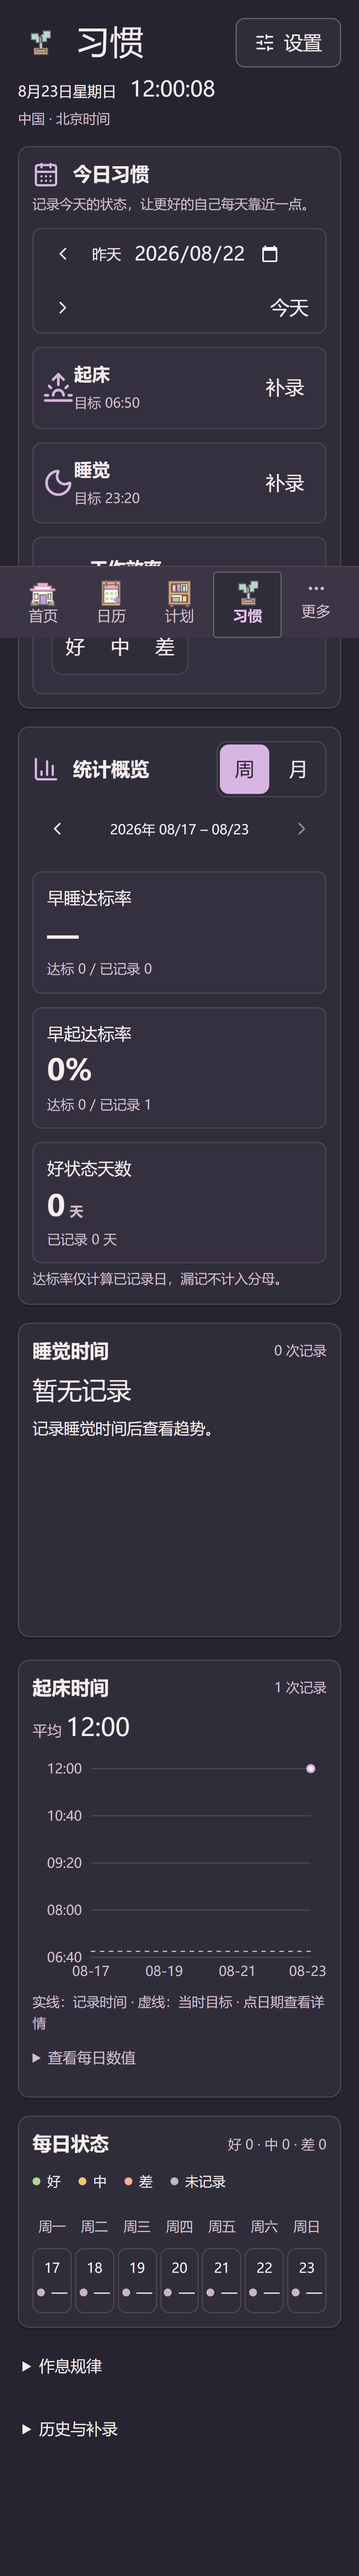
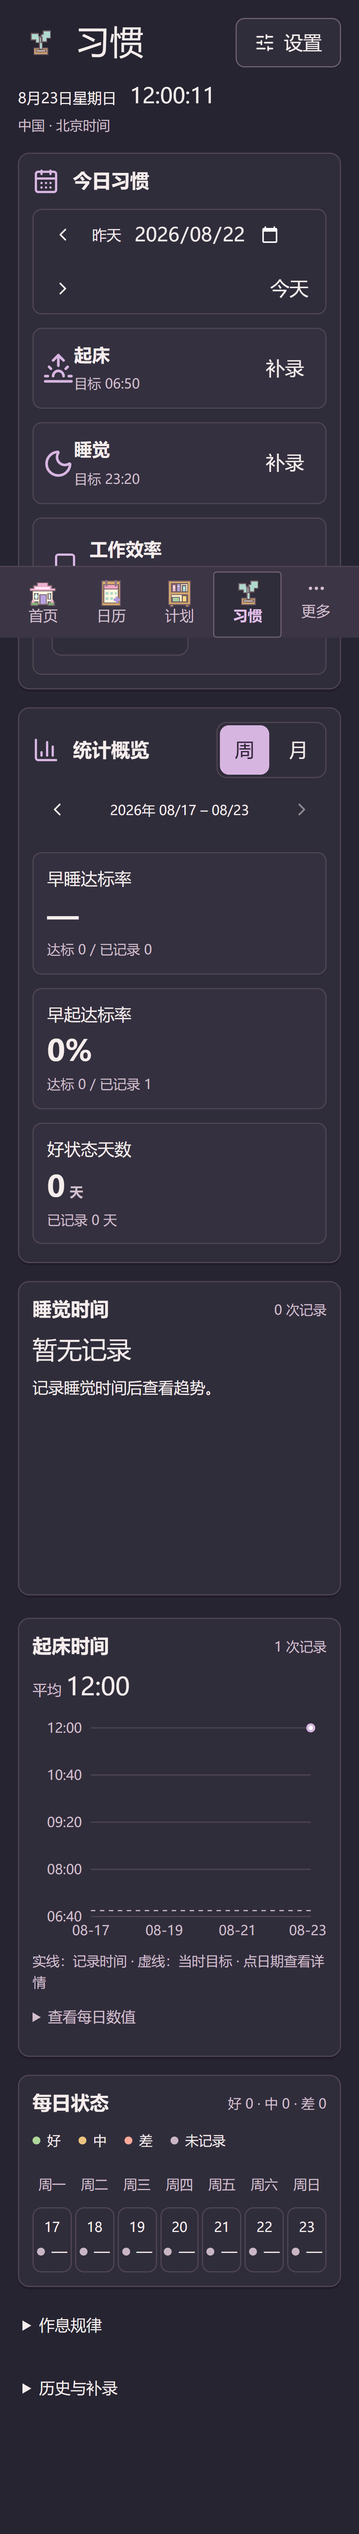
ui(layout)：收紧概览操作区并精简计划与习惯页头

diff --git a/src/features/tasks/task-dashboard.tsx b/src/features/tasks/task-dashboard.tsx
@@ -271,11 +271,11 @@ export function TaskDashboard() {
     return <SettingsPanel tasks={tasks} onUpdateTask={update} />;
   return (
     <div className="dashboard dashboard-annotatable" data-testid="home-panel">
-      <div className="dashboard-overview">
+      <Surface className="dashboard-overview" variant="flat">
         <p className="home-summary" aria-live="polite">
           今日任务 {normalTaskTotal} · 已完成 {done}
         </p>
-        <Surface className="metric-strip" variant="flat">
+        <div className="metric-strip">
           <StatItem
             label="普通任务"
             value={
@@ -318,25 +318,27 @@ export function TaskDashboard() {
               </>
             }
           />
-        </Surface>
-        <button
-          type="button"
-          className="finish-day"
-          disabled={isDayClosed || preparingClose}
-          aria-busy={preparingClose}
-          title="整理未完成任务并保存今日记录"
-          onClick={() => void openCloseDialog()}
-        >
-          {isDayClosed ? (
-            <CircleCheck size={18} aria-hidden="true" />
-          ) : (
-            <Moon size={18} aria-hidden="true" />
-          )}
-          <span>
-            {isDayClosed ? '今日已结束' : preparingClose ? '正在保存…' : '结束今天'}
-          </span>
-        </button>
-      </div>
+        </div>
+        <div className="overview-close-action">
+          <button
+            type="button"
+            className="finish-day"
+            disabled={isDayClosed || preparingClose}
+            aria-busy={preparingClose}
+            title="整理未完成任务并保存今日记录"
+            onClick={() => void openCloseDialog()}
+          >
+            {isDayClosed ? (
+              <CircleCheck size={18} aria-hidden="true" />
+            ) : (
+              <Moon size={18} aria-hidden="true" />
+            )}
+            <span>
+              {isDayClosed ? '今日已结束' : preparingClose ? '正在保存…' : '结束今天'}
+            </span>
+          </button>
+        </div>
+      </Surface>
       <div
         className="dashboard-columns"
         style={{ '--schedule-ratio': `${scheduleRatio}fr` } as React.CSSProperties}

diff --git a/src/features/habits/habits-panel.tsx b/src/features/habits/habits-panel.tsx
@@ -79,7 +79,7 @@ export function HabitsPanel() {
   return (
     <div className="habits-panel" data-testid="habits-panel">
       <header className="habit-page-header">
-        <div>
+        <div className="habit-page-intro">
           <h1>
             <CottageNavIcon name="habits">
               <Sprout size={32} />
@@ -171,9 +171,6 @@ export function HabitsPanel() {
                   <CalendarDays size={24} aria-hidden="true" />
                   今日习惯
                 </h2>
-                <p className="habit-caption">
-                  记录今天的状态，让更好的自己每天靠近一点。
-                </p>
               </div>
               <HabitDayNavigation
                 date={historicalDate ?? today}
@@ -270,10 +267,9 @@ export function HabitsPanel() {
                   <small>已记录 {summary.efficiency.count} 天</small>
                 </div>
               </div>
-              <p className="habit-caption">
-                达标率仅计算已记录日，漏记不计入分母。
-                {summary.mixedTimezones ? '本区间按各条记录时区统计。' : ''}
-              </p>
+              {summary.mixedTimezones && (
+                <p className="habit-caption">本区间按各条记录时区统计。</p>
+              )}
             </div>
             <div className="habit-trends">
               {(['sleep', 'wake'] as const).map((kind) => (

diff --git a/src/features/tasks/task-dashboard.css b/src/features/tasks/task-dashboard.css
@@ -9,17 +9,28 @@
   gap: 16px;
 }
 
-/* 收尾属于当天概览；放在任务列表之前，窄屏换行而不挤压统计或覆盖内容。 */
+/* 统计与收尾共用一个表面，操作区以细分隔线区分，避免小按钮悬在卡片外侧。 */
 .dashboard-overview {
   display: flex;
   align-items: center;
   flex-wrap: wrap;
-  gap: 12px;
+  gap: 20px;
   min-width: 0;
+  padding: 16px 20px;
+  border-radius: 10px;
 }
 .dashboard-overview .metric-strip {
-  flex: 1 1 600px;
+  flex: 1 1 480px;
   min-width: 0;
+  padding: 0;
+}
+.overview-close-action {
+  display: flex;
+  align-items: center;
+  align-self: stretch;
+  margin-left: auto;
+  padding-left: 20px;
+  border-left: 1px solid var(--border-subtle);
 }
 
 .workspace-loading {
@@ -1005,6 +1016,17 @@
 }
 
 @media (max-width: 760px) {
+  .dashboard-overview {
+    gap: 12px;
+    padding: 0;
+    border: 0;
+    background: transparent;
+    box-shadow: none;
+  }
+  .overview-close-action {
+    padding: 0;
+    border: 0;
+  }
   .home-summary {
     display: inline-flex;
     align-items: center;

diff --git a/e2e/ui-preview-demo.spec.ts b/e2e/ui-preview-demo.spec.ts
@@ -35,6 +35,16 @@ test('keeps day closing in the overview across themes', async ({ page }, info) =
       if (page.viewportSize()!.width <= 760) {
         const summary = (await page.locator('.home-summary').boundingBox())!;
         expect(Math.abs(summary.y - bounds.y)).toBeLessThan(2);
+      } else {
+        const overview = (await page.locator('.dashboard-overview').boundingBox())!;
+        const metrics = (await page.locator('.metric-strip').boundingBox())!;
+        expect(
+          overview.x + overview.width - bounds.x - bounds.width,
+        ).toBeGreaterThanOrEqual(16);
+        expect(
+          Math.abs(metrics.y + metrics.height / 2 - bounds.y - bounds.height / 2),
+        ).toBeLessThan(2);
+        await expect(page.locator('.metric-strip.tl-surface')).toHaveCount(0);
       }
       const violations = (
         await new AxeBuilder({ page }).include('.dashboard-overview').analyze()

diff --git a/e2e/ui-habits.spec.ts b/e2e/ui-habits.spec.ts
@@ -10,6 +10,14 @@ import { expectNoUnexpectedHorizontalOverflow } from './support/layout';
 /** 检查真正可见的面板和卡片排列，防止主题仅通过无溢出检查却仍显示旧列表。 */
 async function expectHabitCardLayout(page: Page) {
   const width = page.viewportSize()!.width;
+  if (width >= 1280) {
+    const title = (await page.locator('.habit-page-header h1').boundingBox())!;
+    const clock = (await page.getByTestId('habit-clock').boundingBox())!;
+    expect(clock.x).toBeGreaterThan(title.x + title.width);
+    expect(
+      Math.abs(clock.y + clock.height / 2 - title.y - title.height / 2),
+    ).toBeLessThan(2);
+  }
   const today = page.locator(
     '.habit-today > .habit-check-row, .habit-today > .habit-efficiency-row',
   );

diff --git a/src/features/habits/habits.css b/src/features/habits/habits.css
@@ -69,6 +69,13 @@
 .habit-page-header > div {
   min-width: 0;
 }
+/* 日期时钟紧随页标题，较窄窗口允许整组换行，设置按钮保持独立。 */
+.habit-page-intro {
+  display: flex;
+  align-items: center;
+  flex-wrap: wrap;
+  gap: 12px 28px;
+}
 .habit-caption,
 .habit-check-label small,
 .habit-record-value small,
@@ -494,7 +501,7 @@
   flex-wrap: wrap;
   align-items: baseline;
   gap: 6px 12px;
-  margin-top: 6px;
+  margin: 0;
   font-size: 13px;
 }
 .habit-live-clock time {

diff --git a/src/features/projects/project-management-page.tsx b/src/features/projects/project-management-page.tsx
@@ -110,7 +110,6 @@ export function ProjectManagementPage({
             </span>
             计划
           </h1>
-          <p>管理你的项目、阶段计划和 Daily，让每一段时间都有方向。</p>
         </div>
         <div className="plan-heading-actions">
           <label className="plan-search">

diff --git a/src/features/appearance/cottage-details.css b/src/features/appearance/cottage-details.css
@@ -59,7 +59,6 @@ html:is([data-theme='cottage'], [data-theme='classic'])
     .schedule-panel,
     .waiting-panel,
     .daily-panel,
-    .metric-strip,
     .planning-month,
     .planning-detail,
     .manager-card,

diff --git a/src/features/appearance/classic.css b/src/features/appearance/classic.css
@@ -168,7 +168,6 @@ html[data-theme='classic']
     .schedule-panel,
     .waiting-panel,
     .daily-panel,
-    .metric-strip,
     .planning-month,
     .planning-detail,
     .manager-card,

diff --git a/docs/ui-polish.md b/docs/ui-polish.md
@@ -10,7 +10,11 @@
 
 窗口策略与原生事件修复单独提交。完整窗口拖回小屏后限制到可用工作区，坐标始终使用 DIP，不乘除缩放因子；在最大化/最小化状态不保存异常位置。
 
-「结束今天」移到首页顶部概览区，桌面位于统计右侧，手机与今日任务摘要同组，空间不足自然换行。所有主题采用中性底色、轻边框和月亮图标，不再使用大面积主题强调色或像素立体边。点击仍先等待 Daily 草稿保存，再打开原收尾确认；保存中禁用入口，收尾成功后显示勾选图标与「今日已结束」，业务规则不变。
+「结束今天」位于首页顶部统计面板内部的右侧操作区，以细分隔线区分，保留正常按钮高度并与指标垂直居中；不再在统计卡片外单独留出一块按钮空位。手机与今日任务摘要同组，空间不足自然换行。所有主题采用中性底色、轻边框和月亮图标。点击仍先等待 Daily 草稿保存，再打开原收尾确认；保存中禁用入口，收尾成功后显示勾选图标与「今日已结束」，业务规则不变。
+
+计划页删除页标题下的介绍文案；习惯页删除今日习惯的说明及统计区常驻口径小字，保留目标、记录数量及必要异常提示。日期、时钟和时区放在「习惯」标题右侧同排，手机窄屏自然换行。统计计算与账号时区语义保持不变。
+
+本轮进一步收紧比例后，五组习惯布局与六项收尾浏览器回归重新通过，新增标题/时钟同排、面板内按钮右侧留白及垂直居中断言；lint、typecheck 和 Web 构建通过。localhost 使用当前产物；Electron 打包预览仍对应构建清单所记录的 `7b8df12`，未包含本轮页头与操作区微调。
 
 ## 参考
 

diff --git a/docs/appearance.md b/docs/appearance.md
@@ -6,7 +6,7 @@
 
 ## 设计与交互
 
-- 首页「结束今天」在统计概览旁，手机与任务摘要同组；四套主题均使用中性底色、轻边框和文字图标，不套用主题主按钮的实色与立体边框。收尾弹窗保留明确的确认动作。
+- 首页「结束今天」收进统计概览同一面板的右侧操作区，以细线分组并居中对齐，保留 44px 最小按钮高度和右侧内边距；手机与任务摘要同排。四套主题均使用中性底色、轻边框和文字图标，不套用主题主按钮的实色与立体边框。收尾弹窗保留明确的确认动作。
 - 安妮雅浅色使用浅樱花粉底色、粉调奶油白卡片、玫瑰粉强调与深可可色文字，少量墨绿用于成功状态；深色使用暖紫灰表面、莓果粉强调与粉白文字。插画只出现在首页页头、主题预览、空回收站/任务池和认证插图区，不覆盖任务内容。
 - 手机首页固定为标题行、日期工具栏两行；日期与日历图标是同一个原生日期选择入口，前后一天按钮在右侧。窄屏放大文字时插画让出标题空间，任务项目标签与任务名分行，主题选项也可变为单列。
 - 规划的待安排池只有一个入口：手机底部托盘、桌面右侧栏。移除原月历内部跳转入口，月历图例保留；切日、安排和返回日期焦点沿用原规则。

diff --git a/docs/interaction-reference.md b/docs/interaction-reference.md
@@ -4,7 +4,7 @@
 
 [返回项目首页](../README.md)
 
-首页「结束今天」位于顶部概览区，使用各主题的中性按钮样式。手机与今日任务摘要一组，窄屏允许换行；仍先保存 Daily 草稿并打开收尾确认，取消不提交，当天结束后入口显示「今日已结束」。
+首页「结束今天」放在顶部统计面板内部的右侧操作区，使用各主题的中性按钮样式并与指标居中对齐。手机与今日任务摘要一组，窄屏允许换行；仍先保存 Daily 草稿并打开收尾确认，取消不提交，当天结束后入口显示「今日已结束」。
 
 ## 产品与运行形态
 
